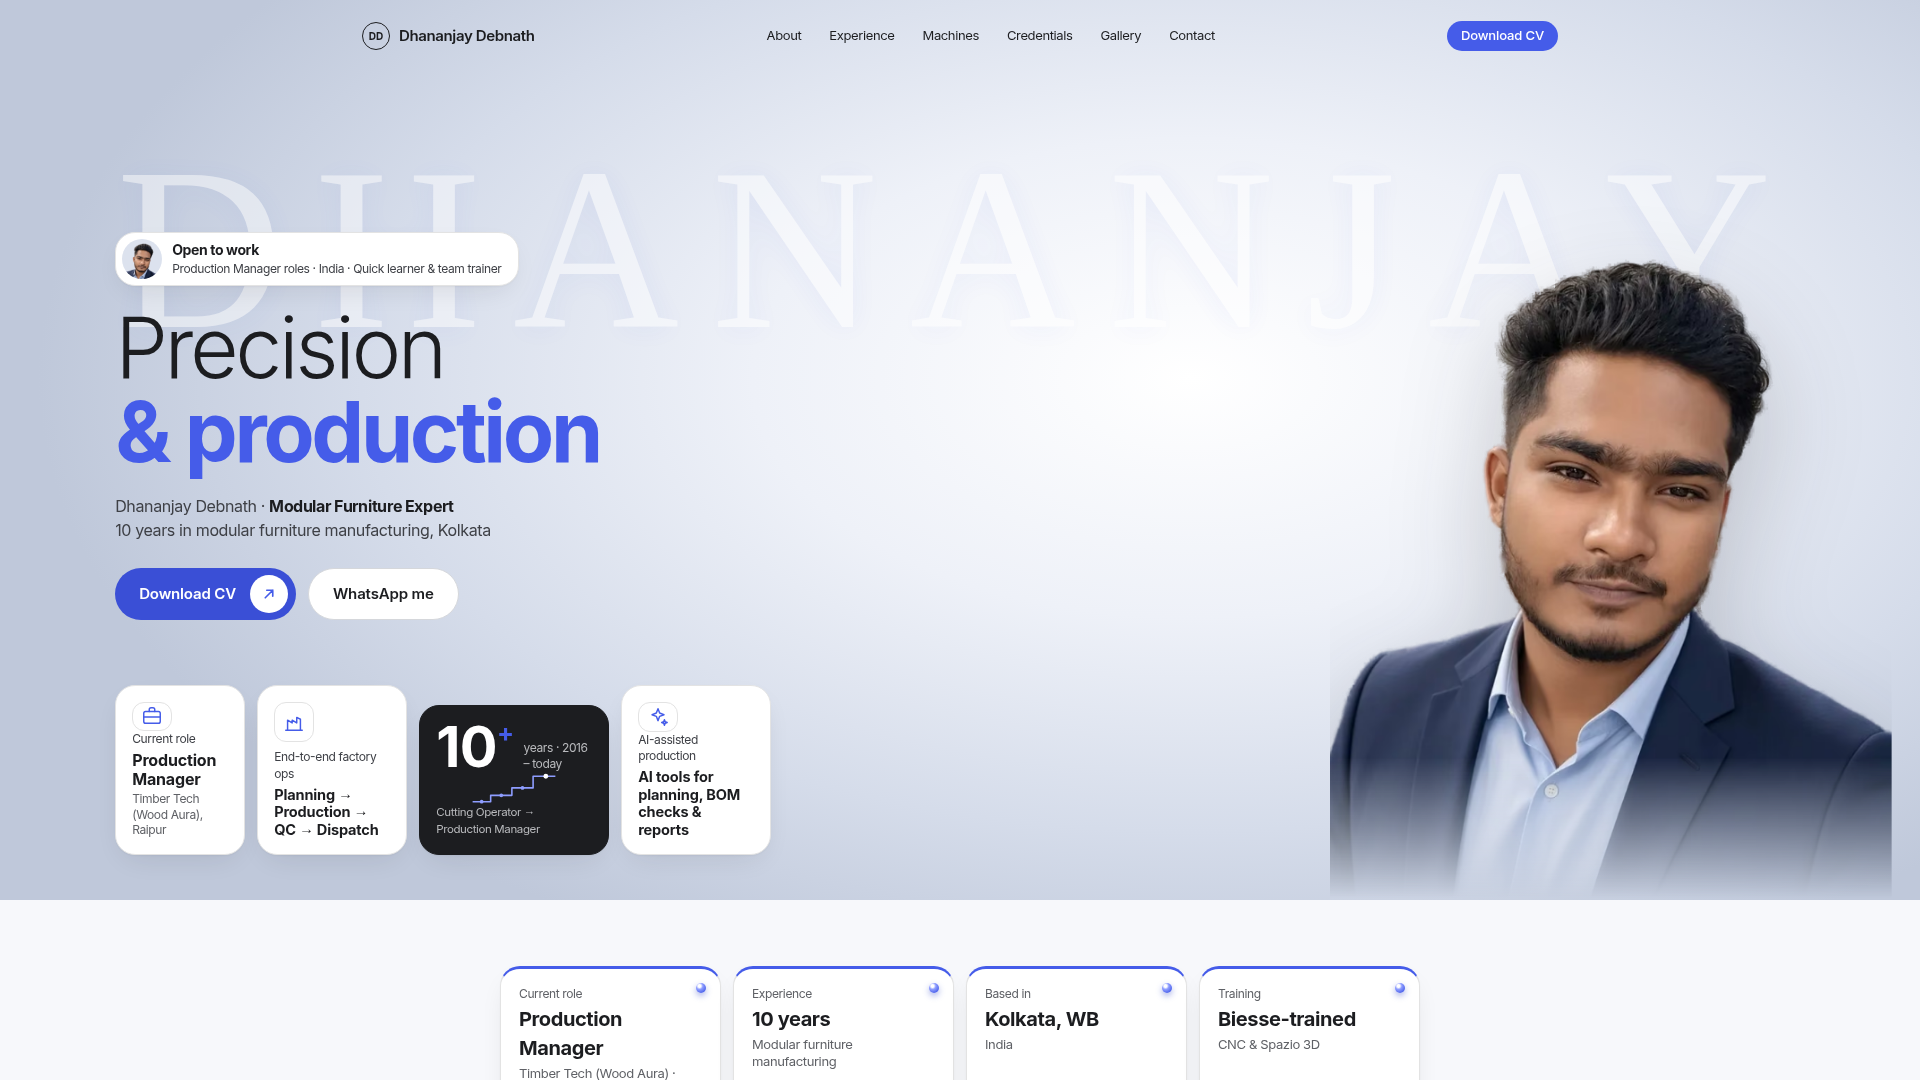
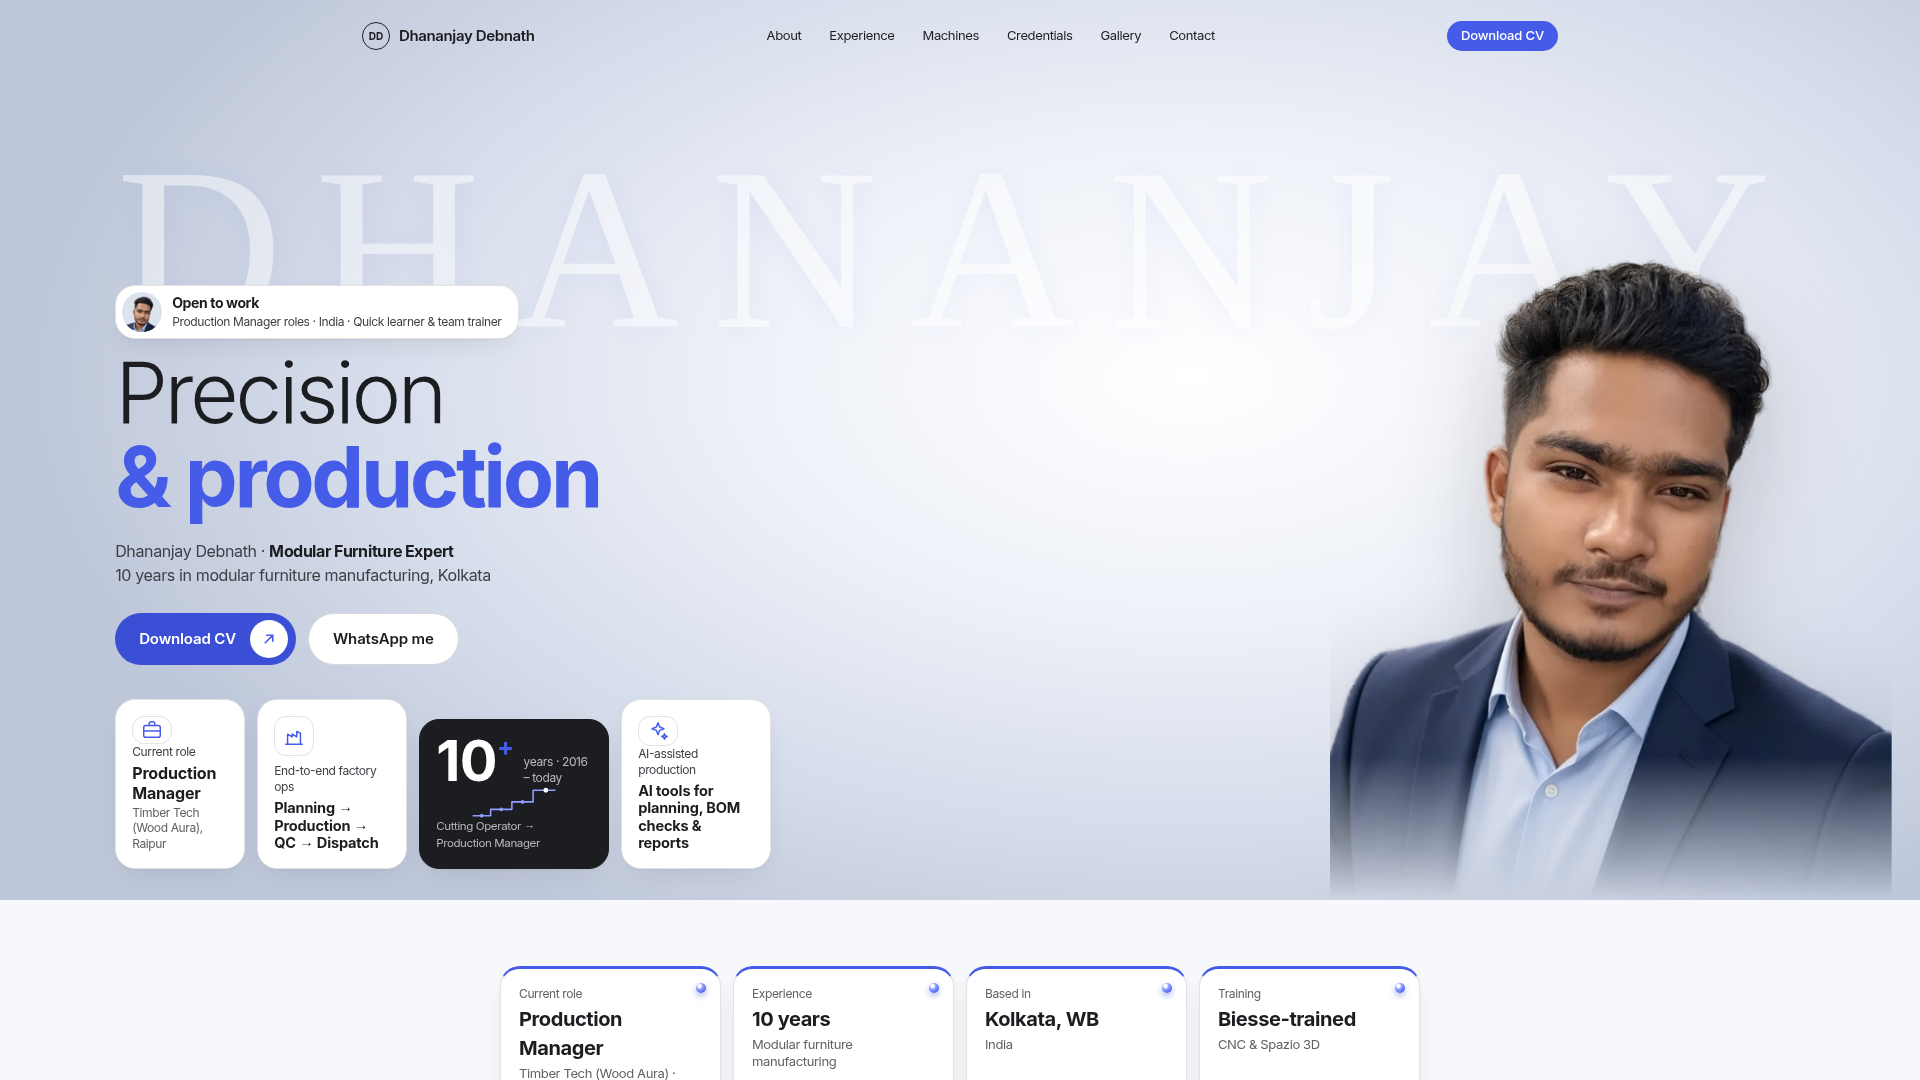
Hero: heading block below DHANANJAY text

Changed region(s): [[0.0625, 0.2139, 0.4062, 0.825]]

diff --git a/index.html b/index.html
@@ -300,7 +300,7 @@ section.alt .card,section.alt .job .box,section.alt .mc,#credentials .card{backg
 .cgs li{padding-top:calc((3 - var(--n))*48px)}.cgb{background:#26272B;border:1px solid #34353A;border-top:3px solid var(--bl);border-radius:16px;padding:16px;min-height:calc(150px + var(--n)*48px);display:flex;flex-direction:column;gap:4px;position:relative}
 .cgs li:last-child .cgb{background:#3A4FD6;border-color:#3A4FD6}.cgs li:last-child .cgy,.cgs li:last-child .cgc{color:#fff}
 .cgy{font-size:12px;font-weight:600;color:#8E9DFF}.cgb b{font-size:16px;line-height:1.25}.cgc{font-size:13px;color:#B9BABD;line-height:1.35}.cgb i{font-style:normal;margin-top:auto;font-size:28px;font-weight:700;letter-spacing:-.03em}
-@media(max-width:760px){.cgs{grid-template-columns:1fr;gap:10px}.cgs li{padding:0 0 0 calc(var(--n)*14px)}.cgb{min-height:0;flex-direction:row;flex-wrap:wrap;align-items:baseline;gap:2px 10px}.cgb b{flex:1 1 100%}.cgb i{margin:0 0 0 auto;font-size:20px}.cgy{flex:1 1 100%}.cg{border-radius:50% 50% 0 0/30px 30px 0 0}.cgs{display:flex;flex-direction:column-reverse}}.hc{grid-template-columns:150px 170px 230px 170px!important}.c4{height:170px;display:flex;flex-direction:column;justify-content:flex-end}.c4 b{font-size:14.5px}@media(max-width:1250px){.hc{grid-template-columns:140px 150px 210px 150px!important}.hp{right:20%}}@media(max-width:900px){.hc{grid-template-columns:1fr 1fr!important}.c4{order:3;height:auto;grid-column:1/-1;flex-direction:row;align-items:center;gap:12px;flex-wrap:wrap}.c4 .lic{margin:0}.c4 small{flex:1 1 60%}.c4 b{flex:1 1 100%}.c3{order:4}}@media(max-width:900px){.hp{right:auto!important;left:auto!important;margin-left:auto!important;margin-right:auto!important;width:min(78vw,400px)!important}.bgt{left:0!important;right:auto!important;width:max-content;top:var(--bt,52%)!important;bottom:auto!important;z-index:0!important;font-size:19vw!important;letter-spacing:.06em!important;opacity:.55;animation:bgt .6s ease calc(var(--d) + .3s) forwards,mq 11s ease-in-out calc(var(--d) + .3s) infinite alternate!important}.hp{z-index:1!important}@keyframes mq{from{transform:translateX(12px)}to{transform:translateX(calc(100vw - 100% - 12px))}}.hp{margin-top:0!important}.hp img{-webkit-mask-image:linear-gradient(#000 80%,transparent),linear-gradient(90deg,transparent,#000 10%,#000 90%,transparent);mask-image:linear-gradient(#000 80%,transparent),linear-gradient(90deg,transparent,#000 10%,#000 90%,transparent);-webkit-mask-composite:source-in;mask-composite:intersect}}@media(max-width:900px) and (prefers-reduced-motion:reduce){.bgt{animation:none!important;opacity:.55;font-size:12.5vw!important;left:0!important;right:0!important;width:auto;text-align:center}}.ab .abl{font-size:clamp(20px,2.2vw,26px);font-weight:600;line-height:1.3;color:#1C1D20;letter-spacing:-.01em}.ab .abs{margin:10px 0 22px;color:#5b5e66;font-size:15.5px;line-height:1.55}.abp{list-style:none;padding:0;margin:0;display:grid;gap:10px}.abp li{background:#fff;border:1px solid #E6E7EB;border-left:3px solid #455CE9;border-radius:12px;padding:13px 16px;box-shadow:0 4px 14px rgba(28,29,32,.05)}.abp b{display:block;font-size:15px;color:#1C1D20}.abp span{display:block;font-size:14px;color:#5b5e66;line-height:1.5;margin-top:2px}.about .kv{align-self:start;display:block;padding:6px 22px}.about .kv>div{display:flex;justify-content:space-between;gap:12px;padding:14px 0;border-bottom:1px solid #EDEEF1;height:auto;min-height:0}.about .kv>div:last-child{border-bottom:0}.about .kv span{color:#6b6e76;font-size:13.5px}.about .kv b{text-align:right;font-size:14.5px}.sg .chips li:after,.sg .wf li:after{content:none!important}@media(max-width:900px){.hc{margin-top:12px!important}}@media(min-width:901px){.hp{right:1.5vw!important;left:auto!important}.hc{right:auto!important;left:max(6vw,24px)!important;bottom:5%!important;grid-template-columns:130px 150px 190px 150px!important;gap:12px!important}.hav{right:auto!important;left:max(6vw,24px)!important;top:calc(34% - 74px)!important}}@media(min-width:901px) and (max-height:860px){.hlt{top:27%!important}.hav{top:calc(27% - 66px)!important}}</style>
+@media(max-width:760px){.cgs{grid-template-columns:1fr;gap:10px}.cgs li{padding:0 0 0 calc(var(--n)*14px)}.cgb{min-height:0;flex-direction:row;flex-wrap:wrap;align-items:baseline;gap:2px 10px}.cgb b{flex:1 1 100%}.cgb i{margin:0 0 0 auto;font-size:20px}.cgy{flex:1 1 100%}.cg{border-radius:50% 50% 0 0/30px 30px 0 0}.cgs{display:flex;flex-direction:column-reverse}}.hc{grid-template-columns:150px 170px 230px 170px!important}.c4{height:170px;display:flex;flex-direction:column;justify-content:flex-end}.c4 b{font-size:14.5px}@media(max-width:1250px){.hc{grid-template-columns:140px 150px 210px 150px!important}.hp{right:20%}}@media(max-width:900px){.hc{grid-template-columns:1fr 1fr!important}.c4{order:3;height:auto;grid-column:1/-1;flex-direction:row;align-items:center;gap:12px;flex-wrap:wrap}.c4 .lic{margin:0}.c4 small{flex:1 1 60%}.c4 b{flex:1 1 100%}.c3{order:4}}@media(max-width:900px){.hp{right:auto!important;left:auto!important;margin-left:auto!important;margin-right:auto!important;width:min(78vw,400px)!important}.bgt{left:0!important;right:auto!important;width:max-content;top:var(--bt,52%)!important;bottom:auto!important;z-index:0!important;font-size:19vw!important;letter-spacing:.06em!important;opacity:.55;animation:bgt .6s ease calc(var(--d) + .3s) forwards,mq 11s ease-in-out calc(var(--d) + .3s) infinite alternate!important}.hp{z-index:1!important}@keyframes mq{from{transform:translateX(12px)}to{transform:translateX(calc(100vw - 100% - 12px))}}.hp{margin-top:0!important}.hp img{-webkit-mask-image:linear-gradient(#000 80%,transparent),linear-gradient(90deg,transparent,#000 10%,#000 90%,transparent);mask-image:linear-gradient(#000 80%,transparent),linear-gradient(90deg,transparent,#000 10%,#000 90%,transparent);-webkit-mask-composite:source-in;mask-composite:intersect}}@media(max-width:900px) and (prefers-reduced-motion:reduce){.bgt{animation:none!important;opacity:.55;font-size:12.5vw!important;left:0!important;right:0!important;width:auto;text-align:center}}.ab .abl{font-size:clamp(20px,2.2vw,26px);font-weight:600;line-height:1.3;color:#1C1D20;letter-spacing:-.01em}.ab .abs{margin:10px 0 22px;color:#5b5e66;font-size:15.5px;line-height:1.55}.abp{list-style:none;padding:0;margin:0;display:grid;gap:10px}.abp li{background:#fff;border:1px solid #E6E7EB;border-left:3px solid #455CE9;border-radius:12px;padding:13px 16px;box-shadow:0 4px 14px rgba(28,29,32,.05)}.abp b{display:block;font-size:15px;color:#1C1D20}.abp span{display:block;font-size:14px;color:#5b5e66;line-height:1.5;margin-top:2px}.about .kv{align-self:start;display:block;padding:6px 22px}.about .kv>div{display:flex;justify-content:space-between;gap:12px;padding:14px 0;border-bottom:1px solid #EDEEF1;height:auto;min-height:0}.about .kv>div:last-child{border-bottom:0}.about .kv span{color:#6b6e76;font-size:13.5px}.about .kv b{text-align:right;font-size:14.5px}.sg .chips li:after,.sg .wf li:after{content:none!important}@media(max-width:900px){.hc{margin-top:12px!important}}@media(min-width:901px){.hp{right:1.5vw!important;left:auto!important}.hc{right:auto!important;left:max(6vw,24px)!important;bottom:5%!important;grid-template-columns:130px 150px 190px 150px!important;gap:12px!important}.hav{right:auto!important;left:max(6vw,24px)!important;top:calc(34% - 74px)!important}}@media(min-width:901px){.hlt{top:39%!important}.hav{top:calc(39% - 66px)!important}.hc{bottom:3.5%!important}}@media(min-width:901px) and (max-height:860px){.hlt{top:33%!important}.hav{top:calc(33% - 60px)!important}.hc{bottom:1.5%!important}.hlt h1{margin-bottom:0}}</style>
 <script type="application/ld+json">
 {"@context":"https://schema.org","@type":"Person","name":"Dhananjay Debnath","alternateName":"Sanu Debnath","jobTitle":"Production Manager","description":"Production Manager with 10 years of hands-on experience in modular furniture manufacturing.","url":"https://debnathofficial.pages.dev/","image":"https://debnathofficial.pages.dev/assets/img/dd-800.webp","email":"mailto:debnathofficial07@gmail.com","telephone":"+91-7797691585","address":{"@type":"PostalAddress","addressLocality":"Kolkata","addressRegion":"West Bengal","addressCountry":"IN"},"worksFor":{"@type":"Organization","name":"Timber Tech (Wood Aura)"},"knowsLanguage":["Bengali","Hindi","English"],"knowsAbout":["Modular furniture manufacturing","Biesse CNC boring","Beam saw","Panel saw","Edge banding","Spazio 3D","Naadi 3D design","AutoCAD 2D","Production Planning & Control","Bill of Materials","Cut list optimization","Quality control"],"hasCredential":[{"@type":"EducationalOccupationalCredential","name":"Biesse CNC Operation & Preventive Maintenance"},{"@type":"EducationalOccupationalCredential","name":"Spazio 3D Cabinet Design & Optimization"},{"@type":"EducationalOccupationalCredential","name":"Naadi 3D design software training (2026)"}]}
 </script>
